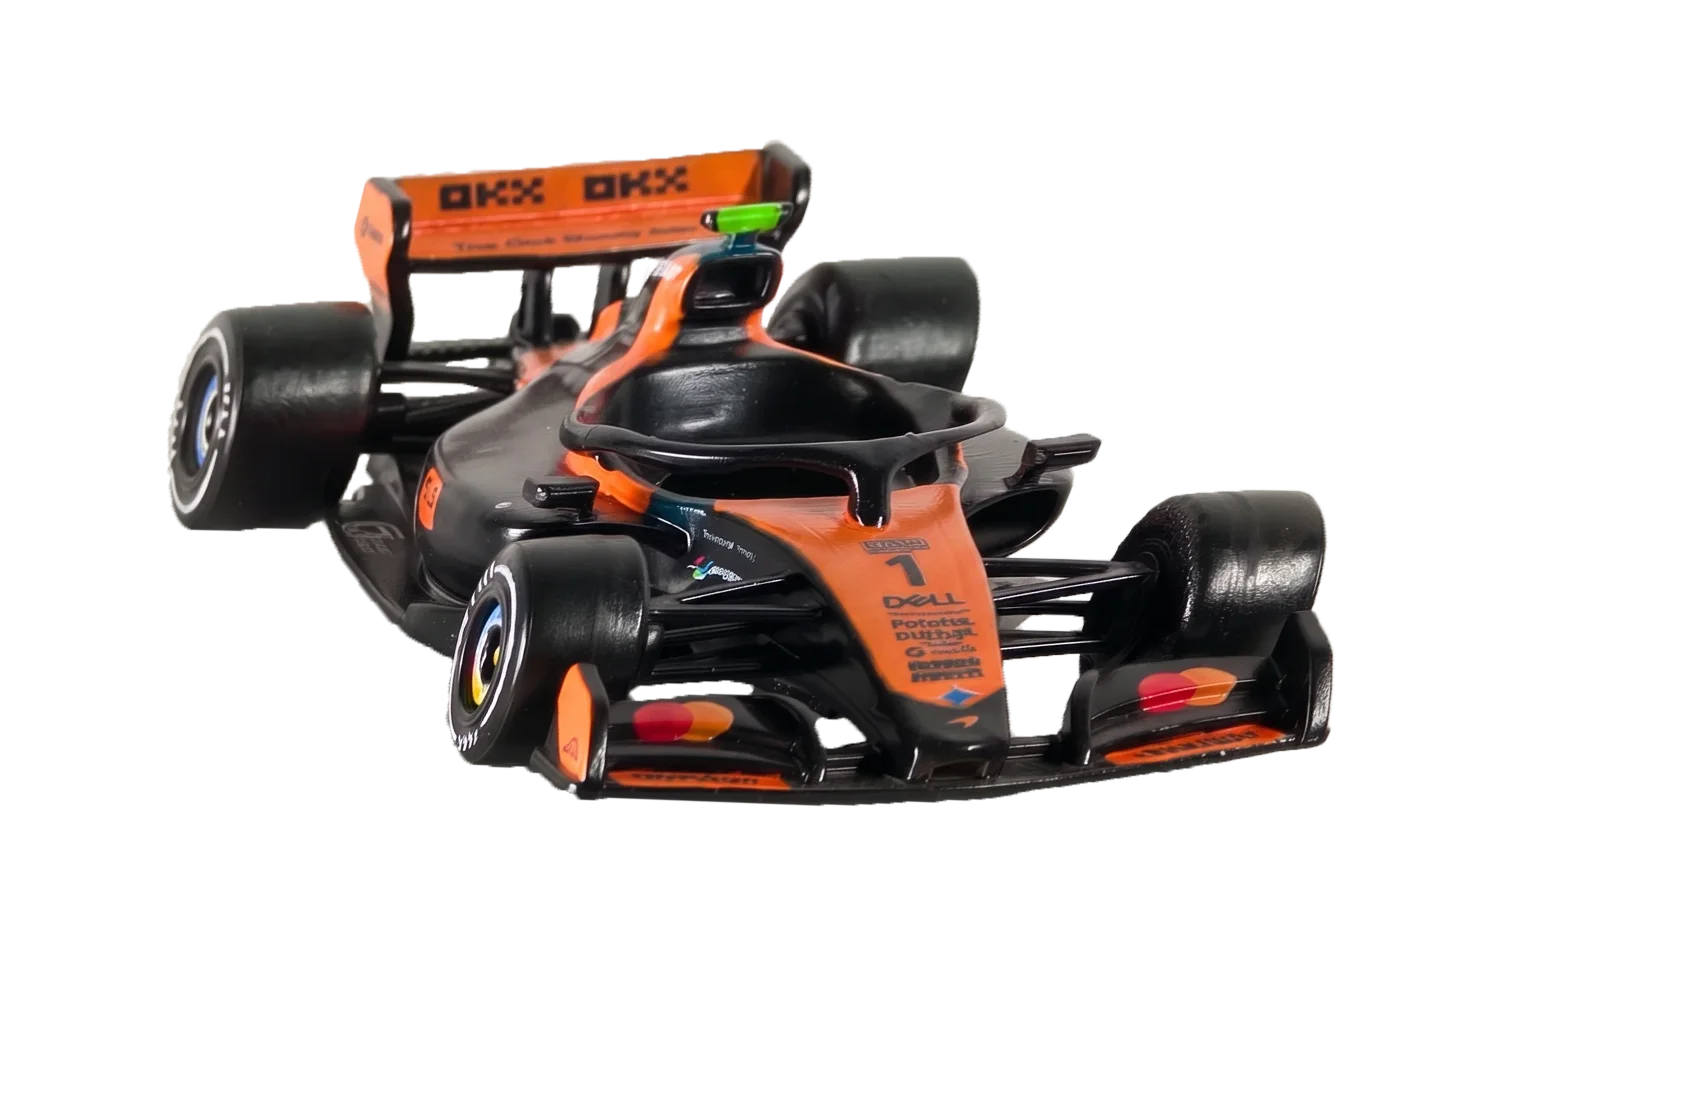
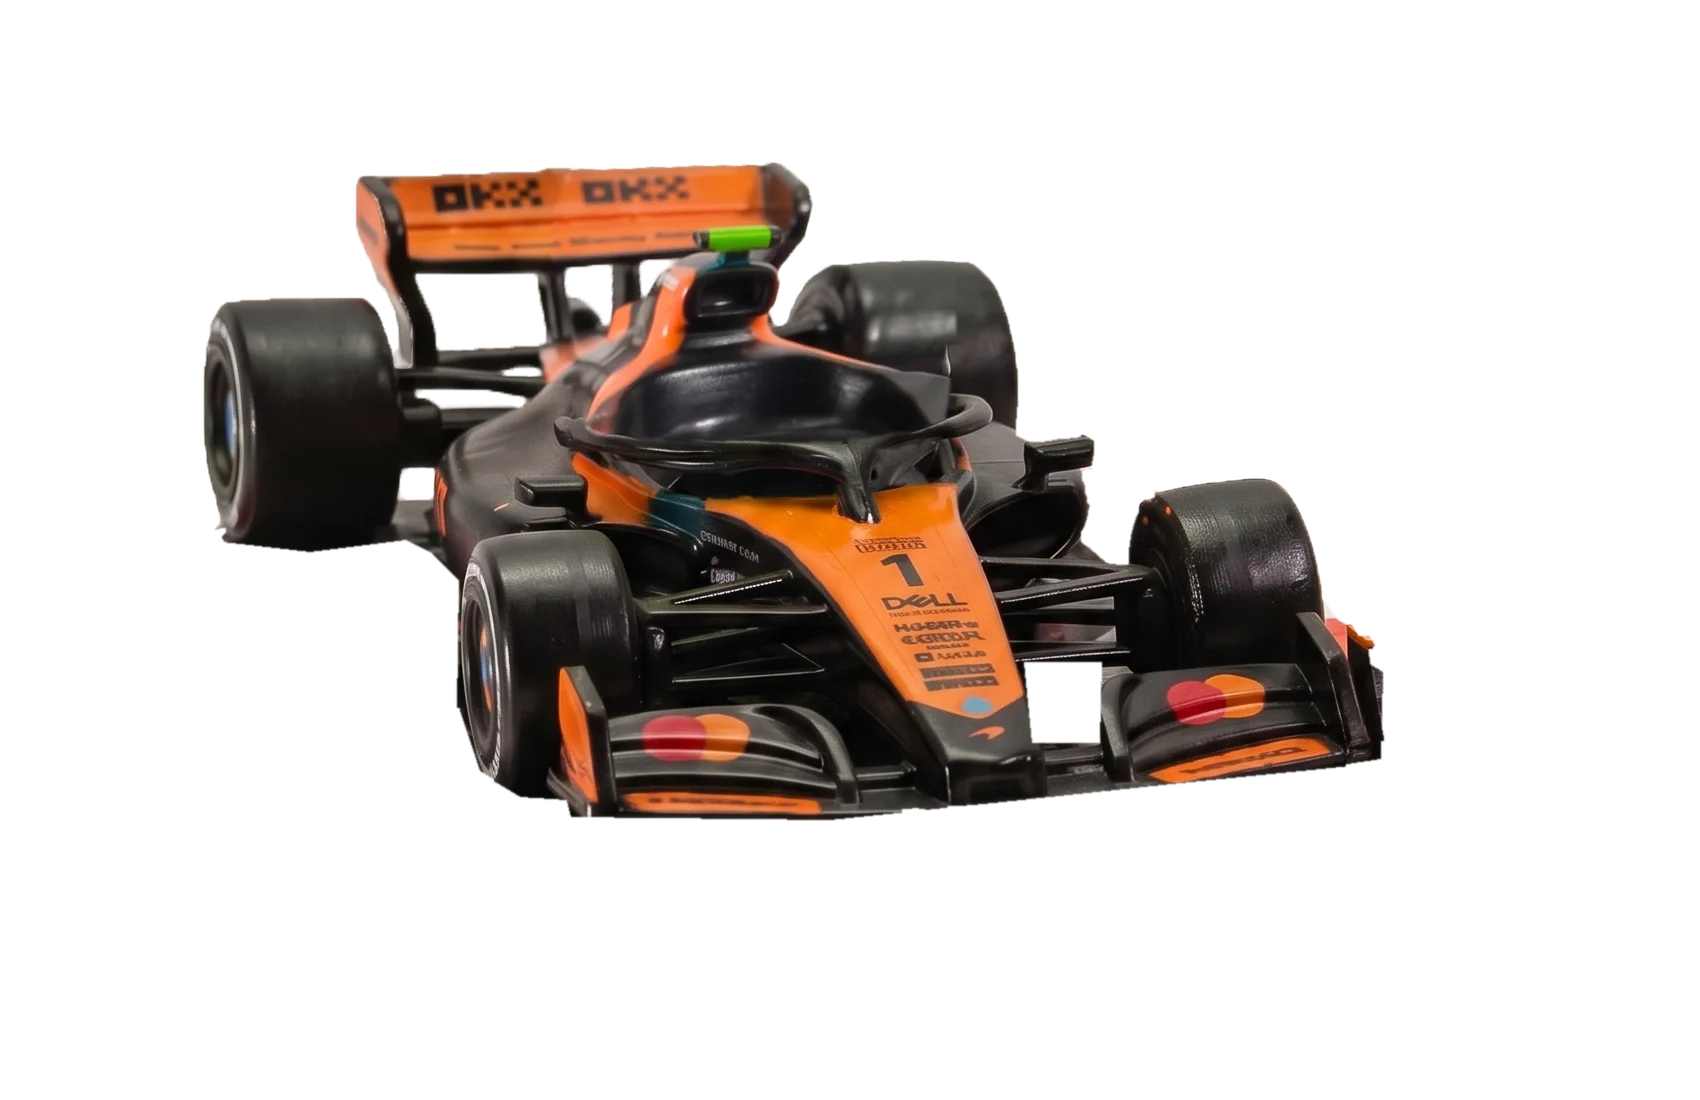
Car section: real photos for the drop and no-helmet frame, pin timing
- The car that drops onto the base is now cut from the car-on-base photo
  instead of a perspective-warped three-quarter shot.
- The no-helmet frame is the with-helmet photo with only the helmet taken
  out; the cockpit behind it comes from the no-helmet photo, fitted locally.
- The falling helmet is the photo's own helmet, so it lands exactly on the
  final frame, and it is hidden once the final photo has faded in.
- Drop anticipatePin, which pinned the section early on fast scrolls, and
  recalculate scroll positions when fonts load or the page height changes.
- Serve the car photos at quality 90.

Claude-Session: https://claude.ai/code/session_01J97npj7o4FM4W4qCJs2evH

Changed region(s): [[0.0935, 0.1236, 0.8418, 0.7727]]

diff --git a/src/components/CarShowcase.tsx b/src/components/CarShowcase.tsx
@@ -62,17 +62,17 @@ const STREAKS = [
 // last frame. It sits centred on the stage at full height; every layer below is lined up to that photo
 // and placed in % of it:
 // - the base alone (same shot), which rises in first;
-// - the three-quarter car, perspective-warped onto the car on the base, for the drop;
-// - the car without its helmet (the no-helmet photo's cockpit, warped in), for the helmet drop;
-// - the helmet photo, fitted over the helmet in the final photo.
+// - the car itself, cut out of that photo with its helmet taken out, which drops onto the base;
+// - the same photo with the helmet taken out (only the cockpit behind it is filled in, from the no-helmet photo);
+// - the helmet, cut out of that photo, which drops into the cockpit and lands exactly on itself.
 const SCENE = { width: 76.855 };
-const HELMET = { left: 32.647, top: 6.182, width: 22.235, height: 42.182 };
-// The halo's front bar and the car below it, layered over the helmet so it slides in behind them.
-const FRONT = { left: 23.529, top: 36.545, width: 43.176, height: 32.091 };
+const HELMET = { left: 32.529, top: 7.182, width: 23.118, height: 41.273 };
+// The halo and the cockpit rim from the same photo, layered over the helmet so it slides in behind them.
+const FRONT = { left: 34.294, top: 37.818, width: 21, height: 11.545 };
 const VISOR = { left: 36.706, top: 26.273, width: 18.176, height: 8.091 };
 const BUTTON = { left: 80, top: 56.364, width: 16.471, height: 25.455, cx: 88.059, cy: 69.091, r: 6.941 };
-// The three-quarter car's pose (about the stage centre) closest to the warped car on the base.
-const LAND = { scale: 0.679, rotate: 4.99, xPercent: -4.09, yPercent: -6.22 };
+// The three-quarter car's pose (about the stage centre) whose outline best covers the car on the base.
+const LAND = { scale: 0.6935, rotate: 1.69, xPercent: -1.73, yPercent: -8.37 };
 // How far above the base the car hovers before it drops, in % of the stage height.
 const HOVER = 22;
 // Timeline time at which the helmet is seated and the lights come on.
@@ -113,7 +113,7 @@ export function CarShowcase({ product }: { product?: Product }) {
 
         const tl = gsap.timeline({
           defaults: { ease: "none" },
-          scrollTrigger: { trigger: root.current, start: "top top", end: "+=560%", scrub: 0.6, pin: true, anticipatePin: 1, invalidateOnRefresh: true },
+          scrollTrigger: { trigger: root.current, start: "top top", end: "+=560%", scrub: 0.6, pin: true, invalidateOnRefresh: true },
           onUpdate: () => setSeated(tl.time() >= SEATED),
         });
 
@@ -170,7 +170,7 @@ export function CarShowcase({ product }: { product?: Product }) {
           .to(".cs-cap-2", { autoAlpha: 0, y: -16, duration: 0.4 }, 8.9)
           .to(".cs-turn", { scale: LAND.scale, rotate: LAND.rotate, xPercent: LAND.xPercent, yPercent: LAND.yPercent - HOVER, duration: 0.95, ease: "power2.inOut" }, 8.9)
           .fromTo(".cs-base", { autoAlpha: 0, yPercent: 45 }, { autoAlpha: 1, yPercent: 0, duration: 1.0, ease: "power3.out" }, 9.0)
-          // While it hovers, the three-quarter shot morphs into the same photo warped to the base's angle.
+          // While it hovers, the three-quarter shot dissolves into the car cut from the photo on the base.
           .fromTo(".cs-car-land", { autoAlpha: 0, yPercent: -HOVER }, { autoAlpha: 1, duration: 0.35 }, 9.7)
           .to(".cs-turn", { autoAlpha: 0, duration: 0.3 }, 9.8)
           .to(".cs-car-land", { yPercent: 0, duration: 0.45, ease: "power3.in" }, 10.05)
@@ -183,13 +183,15 @@ export function CarShowcase({ product }: { product?: Product }) {
           .to(".cs-base", { autoAlpha: 0, duration: 0.01 }, 10.75)
           .fromTo(".cs-cap-3", { autoAlpha: 0, y: 16 }, { autoAlpha: 1, y: 0, duration: 0.5 }, 10.6)
 
-          // 6. The helmet drops in from above and slides down behind the halo into the cockpit, then the
-          // final photo (the car with its helmet on) fades in over the layers.
+          // 6. The helmet drops in from above and slides down behind the halo into the cockpit, landing on the
+          // final photo's own helmet. The final photo fades in over the layers, then the dropped helmet is
+          // hidden so none of it can show around the edges.
           .fromTo(".cs-helmet", { y: () => -window.innerHeight, rotate: -10 }, { y: 0, rotate: 0, duration: 1.0, ease: "power2.in" }, 10.9)
           .to(".cs-helmet", { y: -10, duration: 0.1, ease: "power1.out" }, 11.9)
           .to(".cs-helmet", { y: 0, duration: 0.2, ease: "bounce.out" }, 12.0)
           .to(".cs-shake", { y: 4, duration: 0.04, repeat: 3, yoyo: true }, 11.9)
-          .to(".cs-final-photo", { autoAlpha: 1, duration: 0.25 }, 12.15)
+          .to(".cs-final-photo", { autoAlpha: 1, duration: 0.2 }, 12.2)
+          .to(".cs-helmet-in", { opacity: 0, duration: 0.01 }, 12.4)
           .to(".cs-cap-3", { autoAlpha: 0, y: -16, duration: 0.4 }, 12.1)
           .fromTo(".cs-cap-4", { autoAlpha: 0, y: 16 }, { autoAlpha: 1, y: 0, duration: 0.5 }, 12.3)
 
@@ -254,24 +256,28 @@ export function CarShowcase({ product }: { product?: Product }) {
           {/* The car on its base: the base alone rises in, then the photo of the car on it takes over at
               touchdown, and the helmet drops in between the car and the halo's front bar. */}
           <div className="cs-scene absolute top-0 h-full" data-on={lit || undefined} style={{ left: `${(100 - SCENE.width) / 2}%`, width: `${SCENE.width}%` }}>
-            <Image src={sceneBase} alt="" fill loading="eager" sizes="(max-width: 768px) 84vw, 940px" className="cs-base object-contain" />
+            <Image src={sceneBase} quality={90} alt="" fill loading="eager" sizes="(max-width: 768px) 84vw, 940px" className="cs-base object-contain" />
             <Image
               src={sceneCar}
+              quality={90}
               alt=""
               fill
               loading="eager"
               sizes="(max-width: 768px) 84vw, 940px"
               className="cs-scene-car object-contain"
             />
-            <Image src={carLand} alt="" fill loading="eager" sizes="(max-width: 768px) 84vw, 940px" className="cs-car-land object-contain" />
+            <Image src={carLand} quality={90} alt="" fill loading="eager" sizes="(max-width: 768px) 84vw, 940px" className="cs-car-land object-contain" />
             <div className="cs-helmet absolute" style={box(HELMET)}>
-              <Image src={helmetImg} alt="" fill sizes="(max-width: 768px) 21vw, 240px" className="object-contain" />
+              <div className="cs-helmet-in absolute inset-0">
+                <Image src={helmetImg} quality={90} alt="" fill sizes="(max-width: 768px) 21vw, 240px" className="object-contain" />
+              </div>
             </div>
             <div className="cs-front absolute" style={box(FRONT)}>
-              <Image src={sceneFront} alt="" fill sizes="(max-width: 768px) 34vw, 400px" className="object-contain" />
+              <Image src={sceneFront} quality={90} alt="" fill sizes="(max-width: 768px) 18vw, 260px" className="object-contain" />
             </div>
             <Image
               src={sceneFinal}
+              quality={90}
               alt="MCL-40 model car with the driver's helmet in the cockpit, on its carbon-weave kerb base"
               fill
               loading="eager"

diff --git a/src/components/Landing.tsx b/src/components/Landing.tsx
@@ -81,6 +81,26 @@ export function Landing({ products }: { products: Product[] }) {
       // back in page order and recalculate, letting each pin push the ones below it down.
       ScrollTrigger.sort();
       ScrollTrigger.refresh();
+
+      // Anything that changes the page's height after that (web fonts swapping in, late content) would leave
+      // every pin below it starting in the wrong place, so recalculate whenever the height changes on its own.
+      // Pin spacers change the height during a refresh too; those changes are recorded, not reacted to.
+      let height = document.body.scrollHeight;
+      let timer = 0;
+      const record = () => { height = document.body.scrollHeight; };
+      ScrollTrigger.addEventListener("refresh", record);
+      const observer = new ResizeObserver(() => {
+        if (document.body.scrollHeight === height) return;
+        clearTimeout(timer);
+        timer = window.setTimeout(() => ScrollTrigger.refresh(), 150);
+      });
+      observer.observe(document.body);
+      document.fonts?.ready.then(() => ScrollTrigger.refresh());
+      return () => {
+        observer.disconnect();
+        clearTimeout(timer);
+        ScrollTrigger.removeEventListener("refresh", record);
+      };
     },
     { scope: root },
   );

diff --git a/next.config.ts b/next.config.ts
@@ -4,6 +4,8 @@ const nextConfig: NextConfig = {
   /* config options here */
   cacheComponents: true,
   partialPrefetching: true,
+  // 90 is for the car-on-base photos, whose fine detail (carbon weave, livery text) suffers at the default 75.
+  images: { qualities: [75, 90] },
   turbopack: {
     rules: {
       "*.css": {
